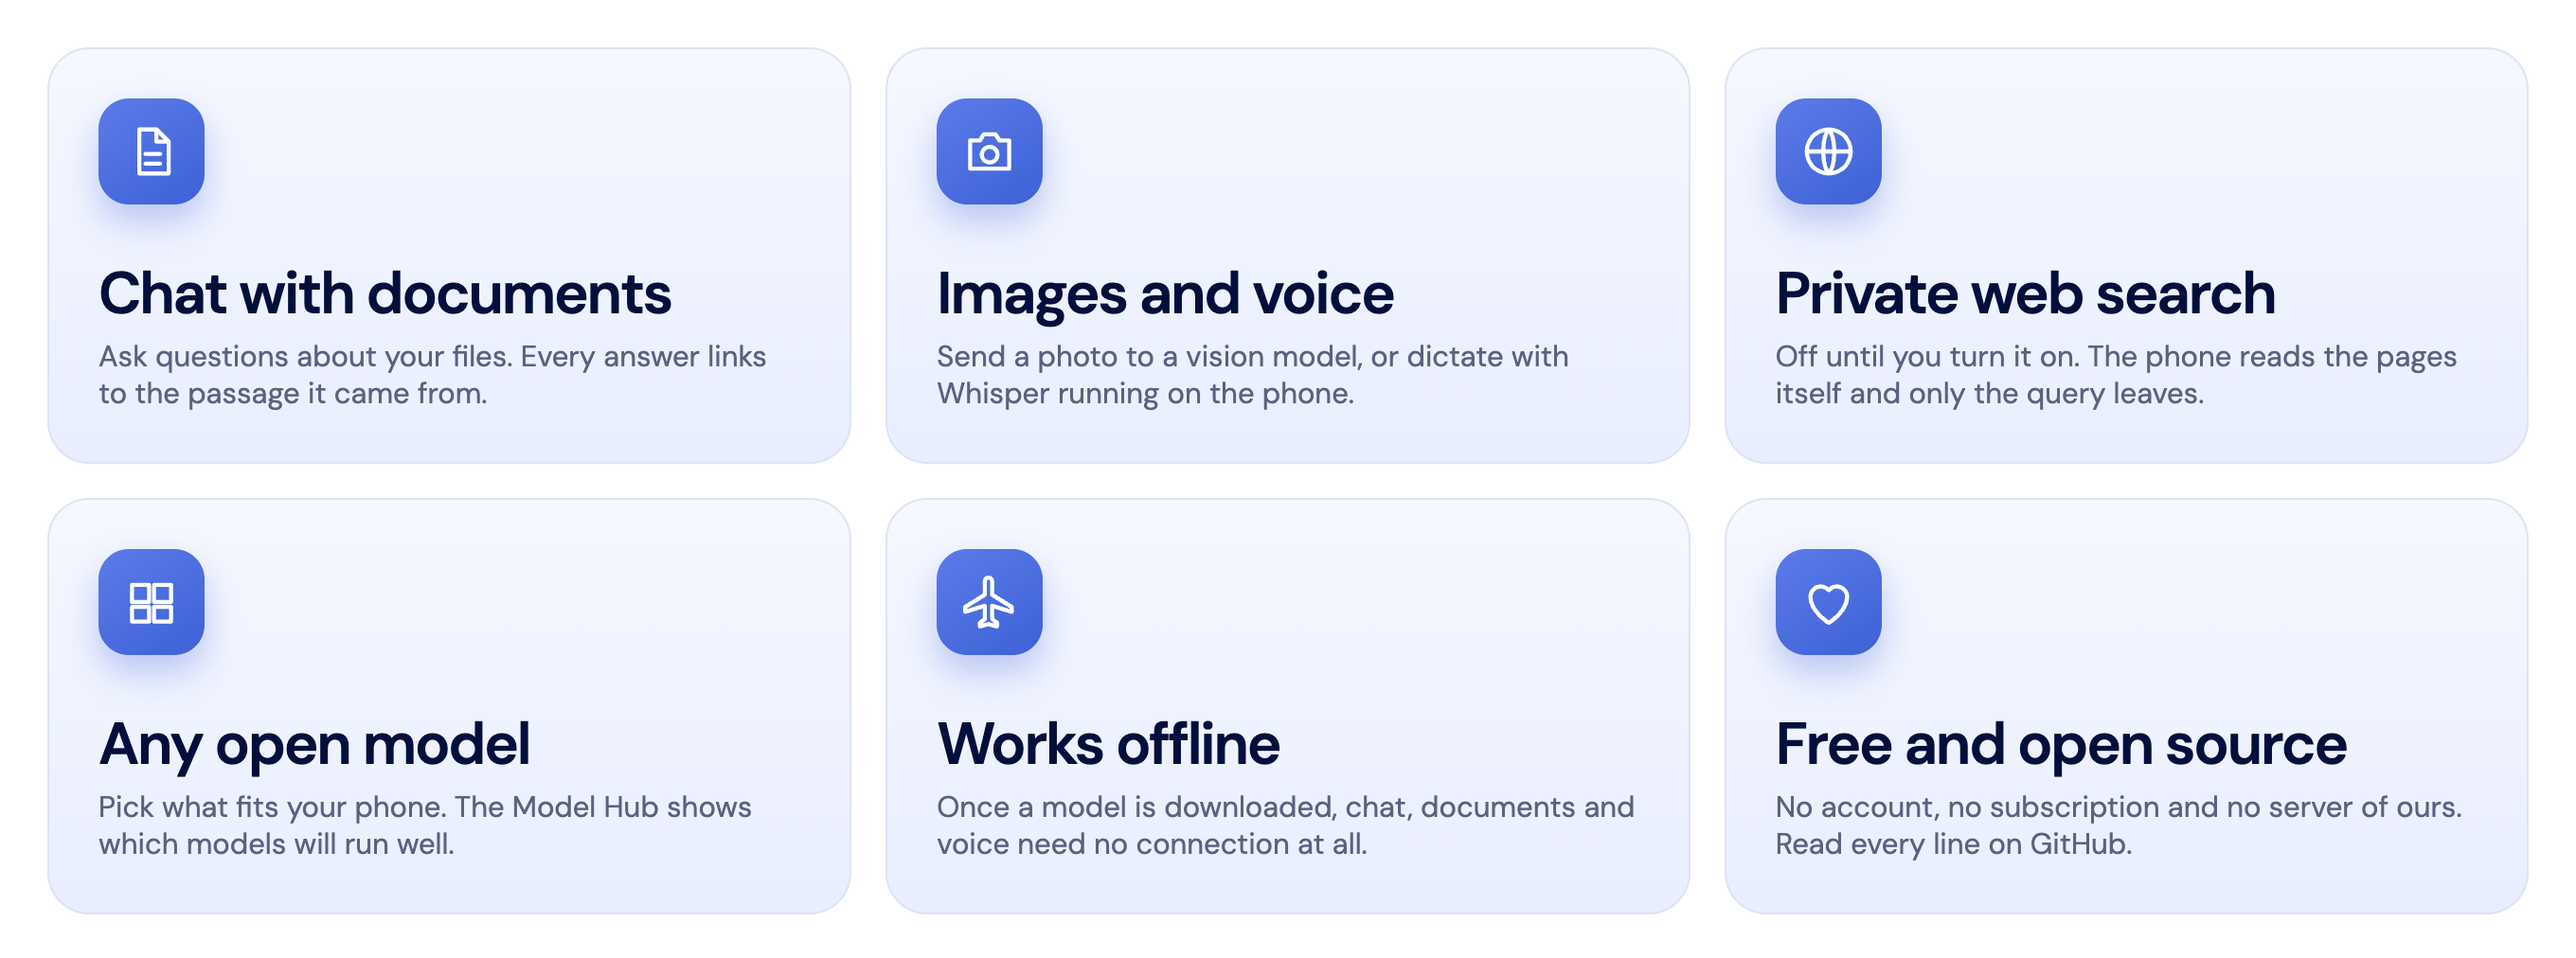
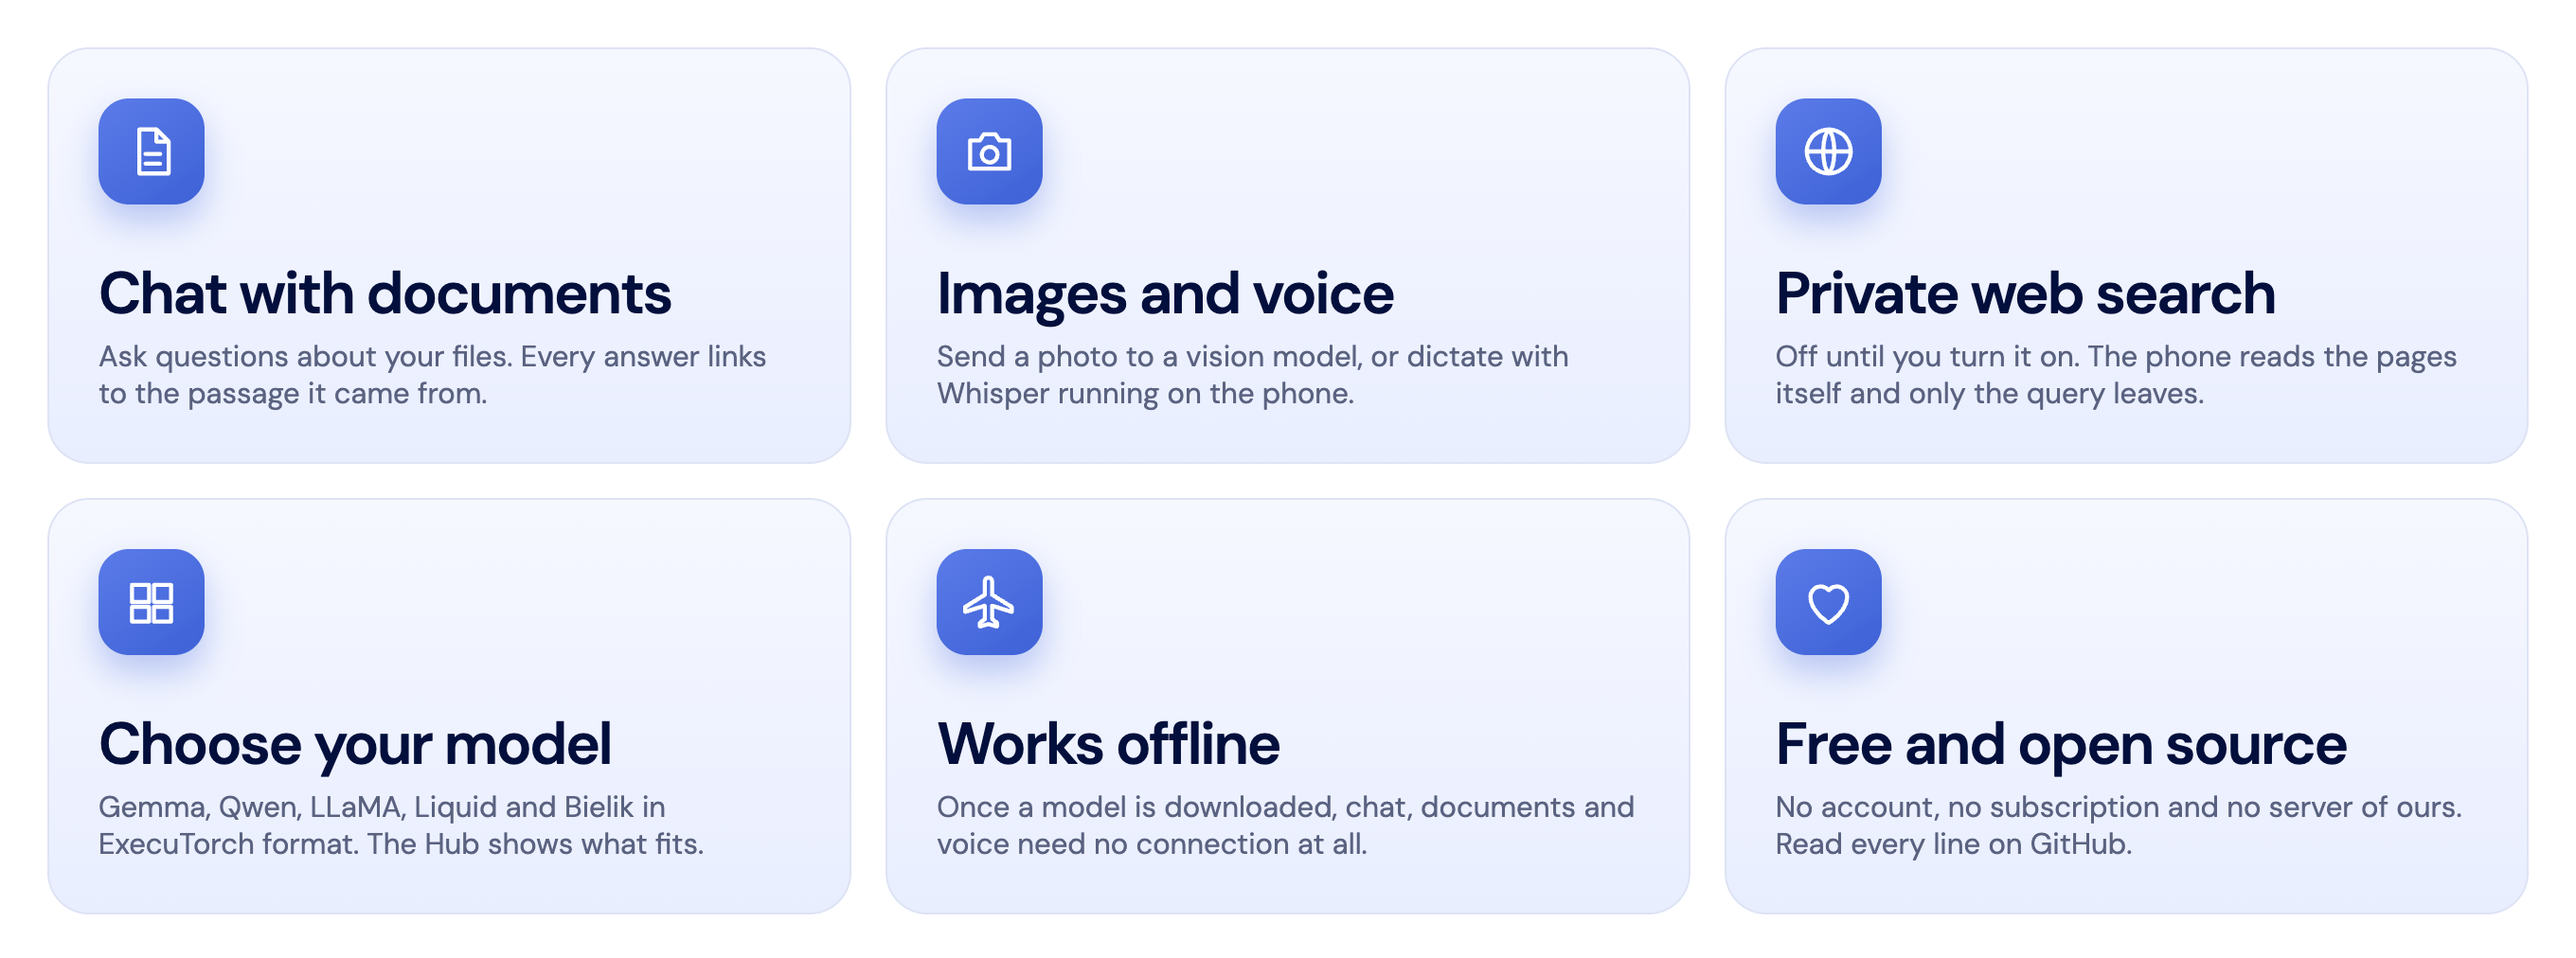
docs(readme): say which models the app runs instead of any open model
The app runs models exported for ExecuTorch, so the feature grid now reads Choose your model and names the families in that format. The alt text follows.

Changed region(s): [[0.0312, 0.8271, 0.2812, 0.8883], [0.0312, 0.7352, 0.25, 0.7964]]

diff --git a/README.md b/README.md
@@ -29,7 +29,7 @@ Private Mind is available in App Store and Google Play:
 - [Google Play](https://play.google.com/store/apps/details?id=com.swmansion.privatemind)
 - [Website](https://privatemind.swmansion.com)
 
-![Private Mind features: documents with sources, images and voice, private web search, any open model, offline use, free and open source](./promo/features.png)
+![Private Mind features: documents with sources, images and voice, private web search, a choice of models, offline use, free and open source](./promo/features.png)
 
 ## Getting Started
 
